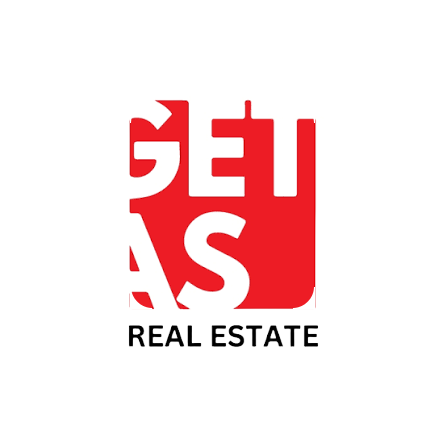
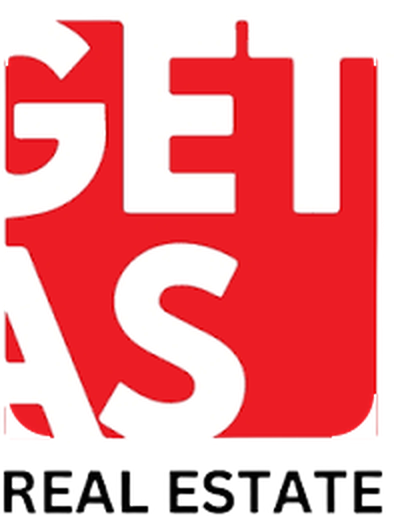
image size fix

diff --git a/index.html b/index.html
@@ -1071,7 +1071,7 @@
               <img src="images/partner_defense_trimmed.png" alt="FDRE Defense Force" class="partner-logo" loading="lazy" decoding="async">
             </div>
             <div class="partner-card" title="Get-As Real Estate">
-              <img src="images/partner_getas_trimmed.png" alt="Get-As Real Estate" class="partner-logo" loading="lazy" decoding="async">
+              <img src="images/partner_getas_trimmed.png" alt="Get-As Real Estate" class="partner-logo partner-logo--getas" loading="lazy" decoding="async">
             </div>
             <div class="partner-card" title="Addis Life Real Estate PLC">
               <img src="images/partner_addislife_trimmed.png" alt="Addis Life Real Estate PLC" class="partner-logo" loading="lazy" decoding="async">
@@ -1091,7 +1091,7 @@
               <img src="images/partner_defense_trimmed.png" alt="FDRE Defense Force" class="partner-logo" loading="lazy" decoding="async">
             </div>
             <div class="partner-card" aria-hidden="true" title="Get-As Real Estate">
-              <img src="images/partner_getas_trimmed.png" alt="Get-As Real Estate" class="partner-logo" loading="lazy" decoding="async">
+              <img src="images/partner_getas_trimmed.png" alt="Get-As Real Estate" class="partner-logo partner-logo--getas" loading="lazy" decoding="async">
             </div>
             <div class="partner-card" aria-hidden="true" title="Addis Life Real Estate PLC">
               <img src="images/partner_addislife_trimmed.png" alt="Addis Life Real Estate PLC" class="partner-logo" loading="lazy" decoding="async">
@@ -1111,7 +1111,7 @@
               <img src="images/partner_defense_trimmed.png" alt="FDRE Defense Force" class="partner-logo" loading="lazy" decoding="async">
             </div>
             <div class="partner-card" aria-hidden="true" title="Get-As Real Estate">
-              <img src="images/partner_getas_trimmed.png" alt="Get-As Real Estate" class="partner-logo" loading="lazy" decoding="async">
+              <img src="images/partner_getas_trimmed.png" alt="Get-As Real Estate" class="partner-logo partner-logo--getas" loading="lazy" decoding="async">
             </div>
             <div class="partner-card" aria-hidden="true" title="Addis Life Real Estate PLC">
               <img src="images/partner_addislife_trimmed.png" alt="Addis Life Real Estate PLC" class="partner-logo" loading="lazy" decoding="async">
@@ -1131,7 +1131,7 @@
               <img src="images/partner_defense_trimmed.png" alt="FDRE Defense Force" class="partner-logo" loading="lazy" decoding="async">
             </div>
             <div class="partner-card" aria-hidden="true" title="Get-As Real Estate">
-              <img src="images/partner_getas_trimmed.png" alt="Get-As Real Estate" class="partner-logo" loading="lazy" decoding="async">
+              <img src="images/partner_getas_trimmed.png" alt="Get-As Real Estate" class="partner-logo partner-logo--getas" loading="lazy" decoding="async">
             </div>
             <div class="partner-card" aria-hidden="true" title="Addis Life Real Estate PLC">
               <img src="images/partner_addislife_trimmed.png" alt="Addis Life Real Estate PLC" class="partner-logo" loading="lazy" decoding="async">

diff --git a/style.css b/style.css
@@ -1454,6 +1454,12 @@ button { cursor: pointer; border: none; background: none; font-family: inherit; 
   filter: drop-shadow(0 8px 18px rgba(184, 152, 106, 0.35));
 }
 
+/* Get-As optical visual balance: aspect ratio compensation so visual presence matches circular & horizontal partner logos */
+.partner-logo--getas,
+.partner-logo[src*="partner_getas"] {
+  max-height: 58px;
+}
+
 @media (max-width: 768px) {
   .partners-carousel-section {
     padding: 2.25rem 0 2rem;
@@ -1477,6 +1483,10 @@ button { cursor: pointer; border: none; background: none; font-family: inherit; 
     max-height: 38px;
     max-width: 120px;
     border-radius: 6px;
+  }
+  .partner-logo--getas,
+  .partner-logo[src*="partner_getas"] {
+    max-height: 44px;
   }
 }
 
@@ -4401,6 +4411,10 @@ body.is-fullscreen #stage-craft-banner {
   .partner-logo {
     max-height: 32px;
     max-width: 105px;
+  }
+  .partner-logo--getas,
+  .partner-logo[src*="partner_getas"] {
+    max-height: 38px;
   }
 
   /* Footer on Mobile */
